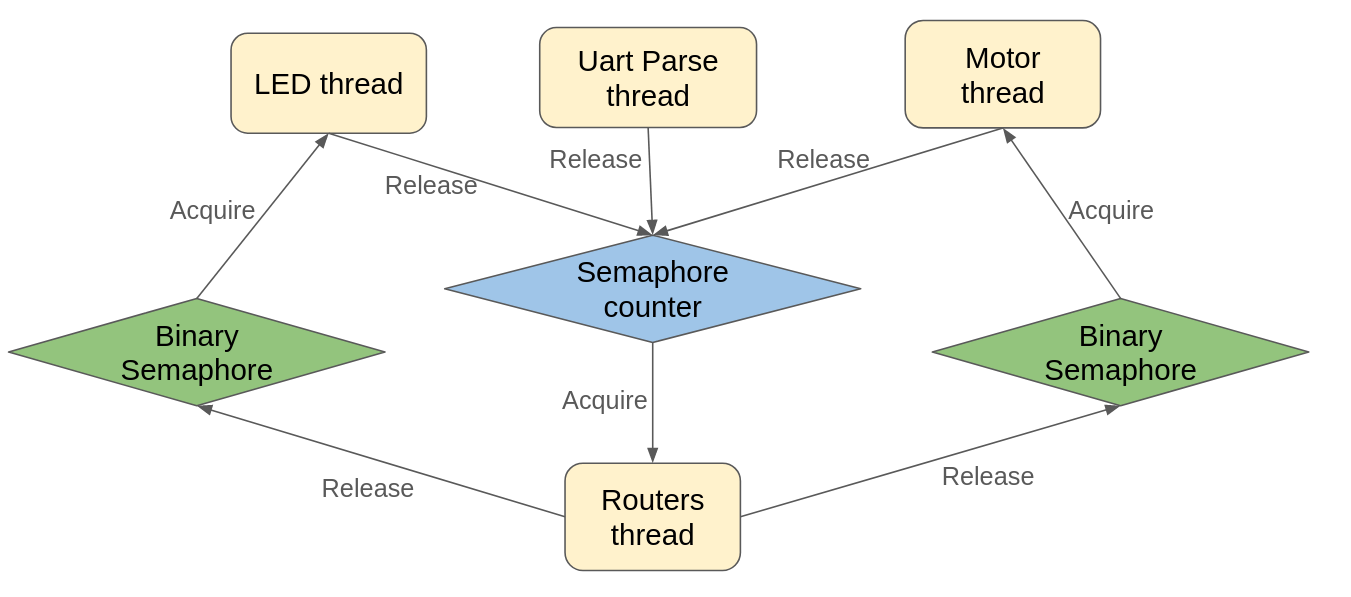
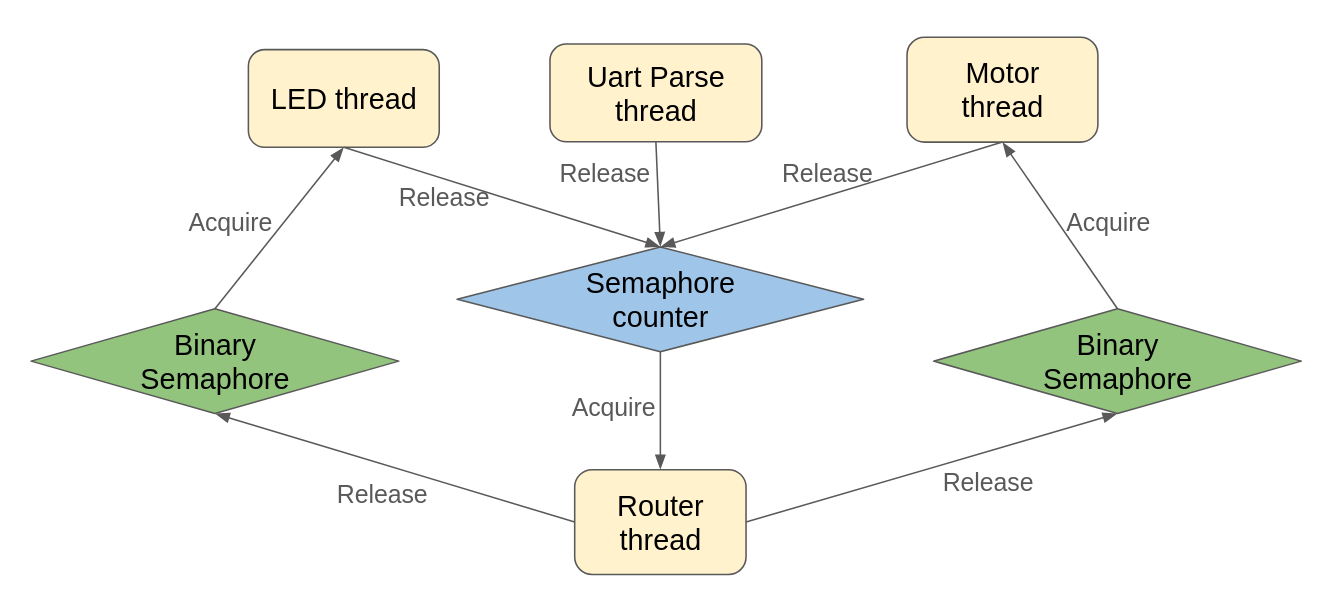
refine code and readme

diff --git a/Core/Inc/cmdQueue.h b/Core/Inc/cmdQueue.h
@@ -7,6 +7,11 @@
 #define LED_COMMAND_OPCODE 0xA
 #define MOTOR_COMMAND_OPCODE 0xB
 
+
+/* -------------------------------------------------------------------------------------------------------------
+ *  Global Variable and Type Declarations
+ *  -------------------------------------------------------------------------------------------------------------
+ */
 extern osSemaphoreId_t binarySem01CmdQueueHandle;
 
 typedef struct Cmd_Queue_t {
@@ -18,13 +23,62 @@ typedef struct Cmd_Queue_t {
     volatile uint16_t *data;
 } Cmd_Queue;
 
+/** 
+ * Create new command queue.
+ *
+ * @param cap the capacity of queue.
+ * @param itemBytes the number of bytes of the item of command queue
+ * @return  Return command queue pointer, NULL when failing to create.
+ */
 Cmd_Queue* createQueue(uint8_t cap, uint8_t itemBytes);
-uint8_t isQueueEmpty(Cmd_Queue *q);
-uint8_t isQueueFull(Cmd_Queue *q);
-int queuePush(Cmd_Queue *q, uint16_t item);
-uint16_t queuePop(Cmd_Queue *q);
-void freeQueue(Cmd_Queue* q);
 
+/**
+ * Whether the queue is empty.
+ * 
+ * @param q Pointer of queue.
+ * @return 1 When queue is empty, 0 when queue is not empty.
+ */
+uint8_t isQueueEmpty(Cmd_Queue *q);
+
+/**
+ * Whether the queue is full.
+ *
+ * @param q Pointer of queue.
+ * @return 1 when queue is full, 0 when queue is not full.
+ */
+uint8_t isQueueFull(Cmd_Queue *q);
+
+/**
+ * Pushes an item onto the queue.
+ * 
+ * @param q Pointer to the queue.
+ * @param item The item to be pushed onto the queue.
+ * @return -1 if the operation fails, 0 if it succeeds.
+ */
+int queuePush(Cmd_Queue *q, uint16_t item);
+
+/**
+ * Pops an item from the queue.
+ * 
+ * @param q Pointer to the queue.
+ * @return 0xffff if the operation fails, item if it succeeds.
+ */
+uint16_t queuePop(Cmd_Queue *q);
+
+/**
+ * Pops an item from the queue according to the opcode of item
+ * 
+ * @param q Pointer to the queue.
+ * @param targetOpcode The opcode of item when want to get from the queue
+ * @return 0xffff if the operation fails, item if it succeeds.
+ */
 uint16_t queuePopItemByOpcode(Cmd_Queue *q, uint8_t targetOpcode);
+
+/**
+ * Release the resource of queue
+ * 
+ * @param q Pointer to the queue.
+ */
+void freeQueue(Cmd_Queue* q);
 
 #endif /* CMD_QUEUE_H_ */

diff --git a/Core/Inc/uartParser.h b/Core/Inc/uartParser.h
@@ -10,24 +10,10 @@
 #define TMP_STR_LEN 20
 #define CMD_QUEUE_CAPACITY 5
 
-void initUsart3(void);
-
-void transmitOneChar(uint8_t ch);
-
-void transmitCharArray (char *arr);
-
-void USART3_4_IRQHandler(void);
-
-void commandError(char *arr);
-
-void StartParseUartTask(void *argument);
-
-void sendUint16BinToUart(uint16_t x);
-
-uint8_t parseCmd(void);
-
-uint8_t convertSpeed(char *ascii);
-
+/* -------------------------------------------------------------------------------------------------------------
+ *  Global Variable and Type Declarations
+ *  -------------------------------------------------------------------------------------------------------------
+ */
 extern osThreadId_t UARTTaskHandle;
 
 extern Cmd_Queue * cmdQueue;
@@ -35,4 +21,59 @@ extern Cmd_Queue * cmdQueue;
 extern osSemaphoreId_t binarySem02UartParserHandle;
 
 extern const osThreadAttr_t UARTTask_attributes;
+
+/**
+ * Initialze usart 3 and create a command queue
+ */
+void initUsart3(void);
+
+/**
+ * Send a char via UART
+ * 
+ * @param ch, the char to be sent
+ */
+void transmitOneChar(uint8_t ch);
+
+/**
+ * Send the string in char array via UART
+ * 
+ * @param arr The pointer of char array of string
+ */
+void transmitCharArray (char *arr);
+
+/**
+ * Interrupt handler of usart 3 and 4
+ */
+void USART3_4_IRQHandler(void);
+
+/**
+ * UART parser thread function
+ * 
+ * @param  argument: Not used
+ */
+void StartParseUartTask(void *argument);
+
+/**
+ * Convert a uint16_t integer to binary and send it via UART.
+ * 
+ * @param x The integer to be converted and sent.
+ */
+void sendUint16BinToUart(uint16_t x);
+
+/**
+ * Parse user command and store the command in global variable if it is valid
+ * 
+ * @return 1 if fail to parse, otherwise 0
+ */
+uint8_t parseCmd(void);
+
+/**
+ * Convert UART ascii speed into into uint8 to add.
+ * 
+ * @param x ascii, speed in ascii format.
+ * @return the uint8 format of speed.
+ */
+// to command
+uint8_t convertSpeed(char *ascii);
+
 #endif /* UART_PARSER_H_ */

diff --git a/Core/Inc/sync.h b/Core/Inc/sync.h
@@ -5,15 +5,22 @@
 #include "cmsis_os2.h"
 #include "uartParser.h"
 
+/* -------------------------------------------------------------------------------------------------------------
+ *  Global Variable and Type Declarations
+ *  -------------------------------------------------------------------------------------------------------------
+ */
 extern osSemaphoreId_t countSem01;
 extern osSemaphoreId_t ledRouterSem01;
 extern osSemaphoreId_t motorRouterSem01;
-// extern osSemaphoreId_t ledStatusMutex;
-// extern osSemaphoreId_t motorStatusMutex;
 extern osSemaphoreId_t workerStatusMutex;
 extern volatile uint8_t ledWorkerBusy;
 extern volatile uint8_t motorWorkerBusy;
 
+/**
+ * Sychronization Initialization Function
+ *
+ *  @return -1 fail to initialize, 0 initialize successfully
+ */
 int8_t syncInit(void);
 
 #endif // SYNC_H_

diff --git a/Core/Src/cmdQueue.c b/Core/Src/cmdQueue.c
@@ -66,9 +66,6 @@ uint16_t queuePop(Cmd_Queue *q) {
     return item;
 }
 
-// When the return value is 0xffff, fail to find the item
-// that contain the target opcode.
-//
 uint16_t queuePopItemByOpcode(Cmd_Queue *q, uint8_t targetOpcode) {
     osSemaphoreAcquire(binarySem01CmdQueueHandle, osWaitForever);
     uint16_t idx = q->front;

diff --git a/Core/Src/sync.c b/Core/Src/sync.c
@@ -7,8 +7,6 @@ osSemaphoreId_t workerStatusMutex;
 volatile uint8_t ledWorkerBusy = 0;
 volatile uint8_t motorWorkerBusy = 0;
 
-// Return -1, osSemaphoreNew == NULL
-// Return 0, init success
 int8_t syncInit(void) {
     int8_t status = 0;
     countSem01 = osSemaphoreNew(3, 0, NULL);

diff --git a/README.md b/README.md
@@ -24,5 +24,5 @@ We built a simple command-line interface for some basic tasks using an RTOS to i
 ## Threads Synchronization
 The synchronization between different threads are shown in the following picture.
 ![screenshot](./pictures/thread_synchronization.png)
-* We use a semaphore counter to wake up Router thread. The UART thread releases the semaphore counter when it adds a new command to the command queue. When the LED thread completes its task, before it goes to sleep, it releases the semaphore counter; meanwhile when the Motor thread completes its task, before it goes to sleep, it releases the semaphore counter. The release operation will increase the semaphore counter by one. The router thread tries to acquire semaphore ocunter, when the counter is greater than one, it will be woken up, when the counter is 0, it is in sleep.
-* We use a binary semaphore for Router to wake up the LED thread and Motor thread separately. The LED and Motor thread will go to sleep by acquiring the binary semaphore, and Router thread releases the specific semaphore when it gets a related command for the thread to handle.
+* We employ a semaphore counter mechanism to facilitate communication between threads in our system. The UART thread releases the semaphore counter when it pushes a new command to the command queue. When the LED thread completes its task, before transitioning to a sleep state, it releases the semaphore counter; meanwhile when the Motor thread completes its task, before transitioning to a sleep state, it releases the semaphore counter. The release operation will increase the semaphore counter by one. The router thread tries to acquire semaphore ocunter, when the counter is greater than 0, it will be woken up and the semaphore counter subtract 1, when the counter is 0, it keeps sleep.
+* We use two separate binary semaphore for Router to wake up the LED thread and Motor thread respectively. When the Router thread receives a command relevant to a specific thread and the thread is idle, it releases the corresponding binary semaphore, thereby waking up the designated thread to process the received command.
